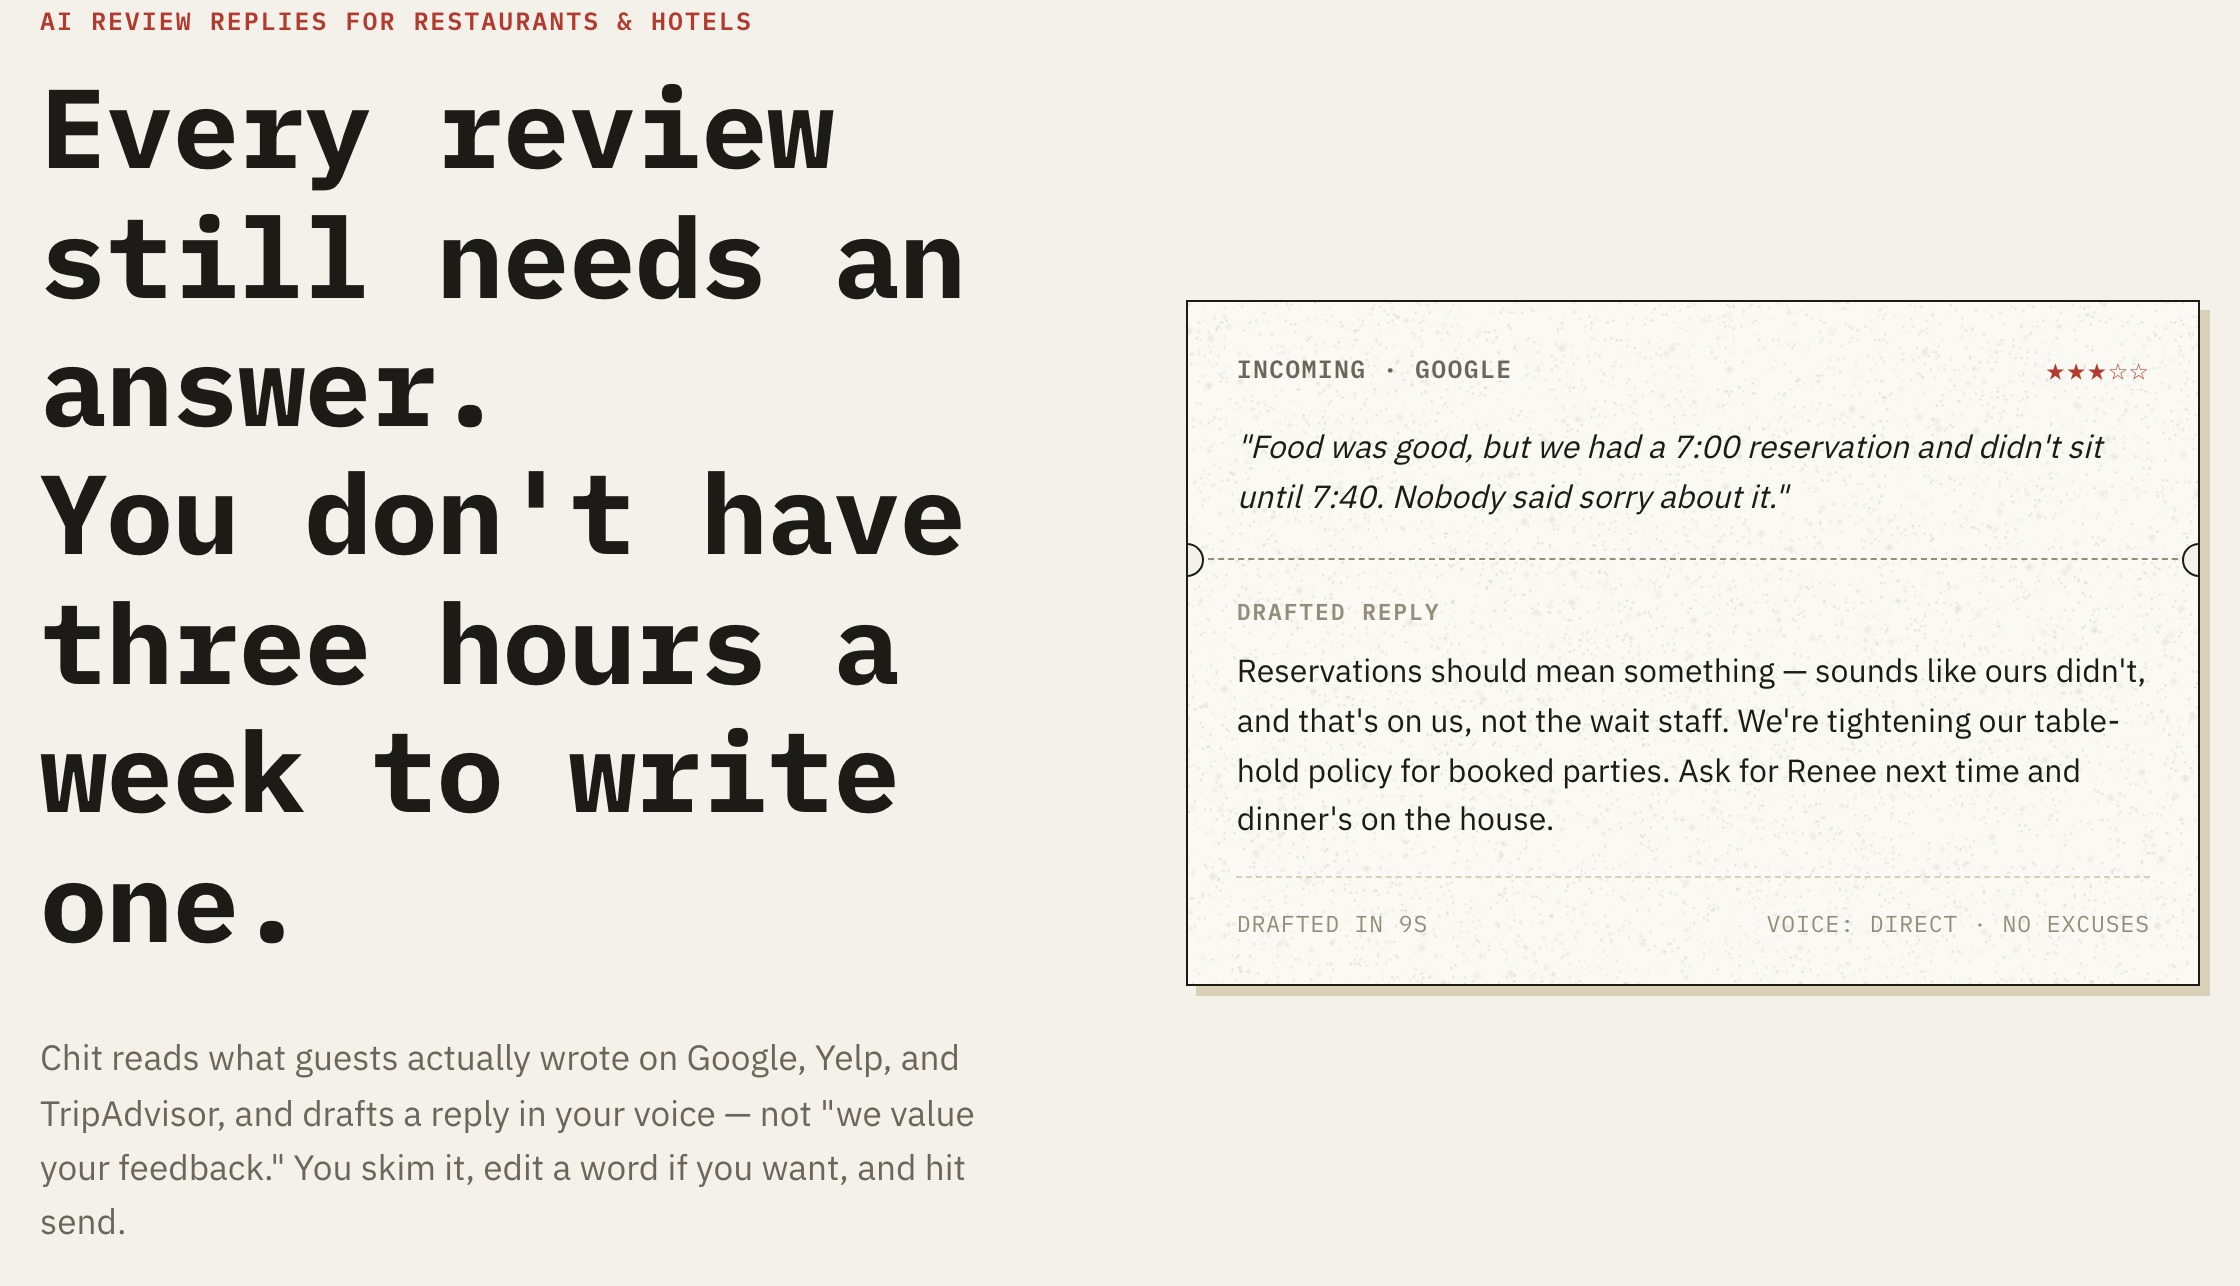
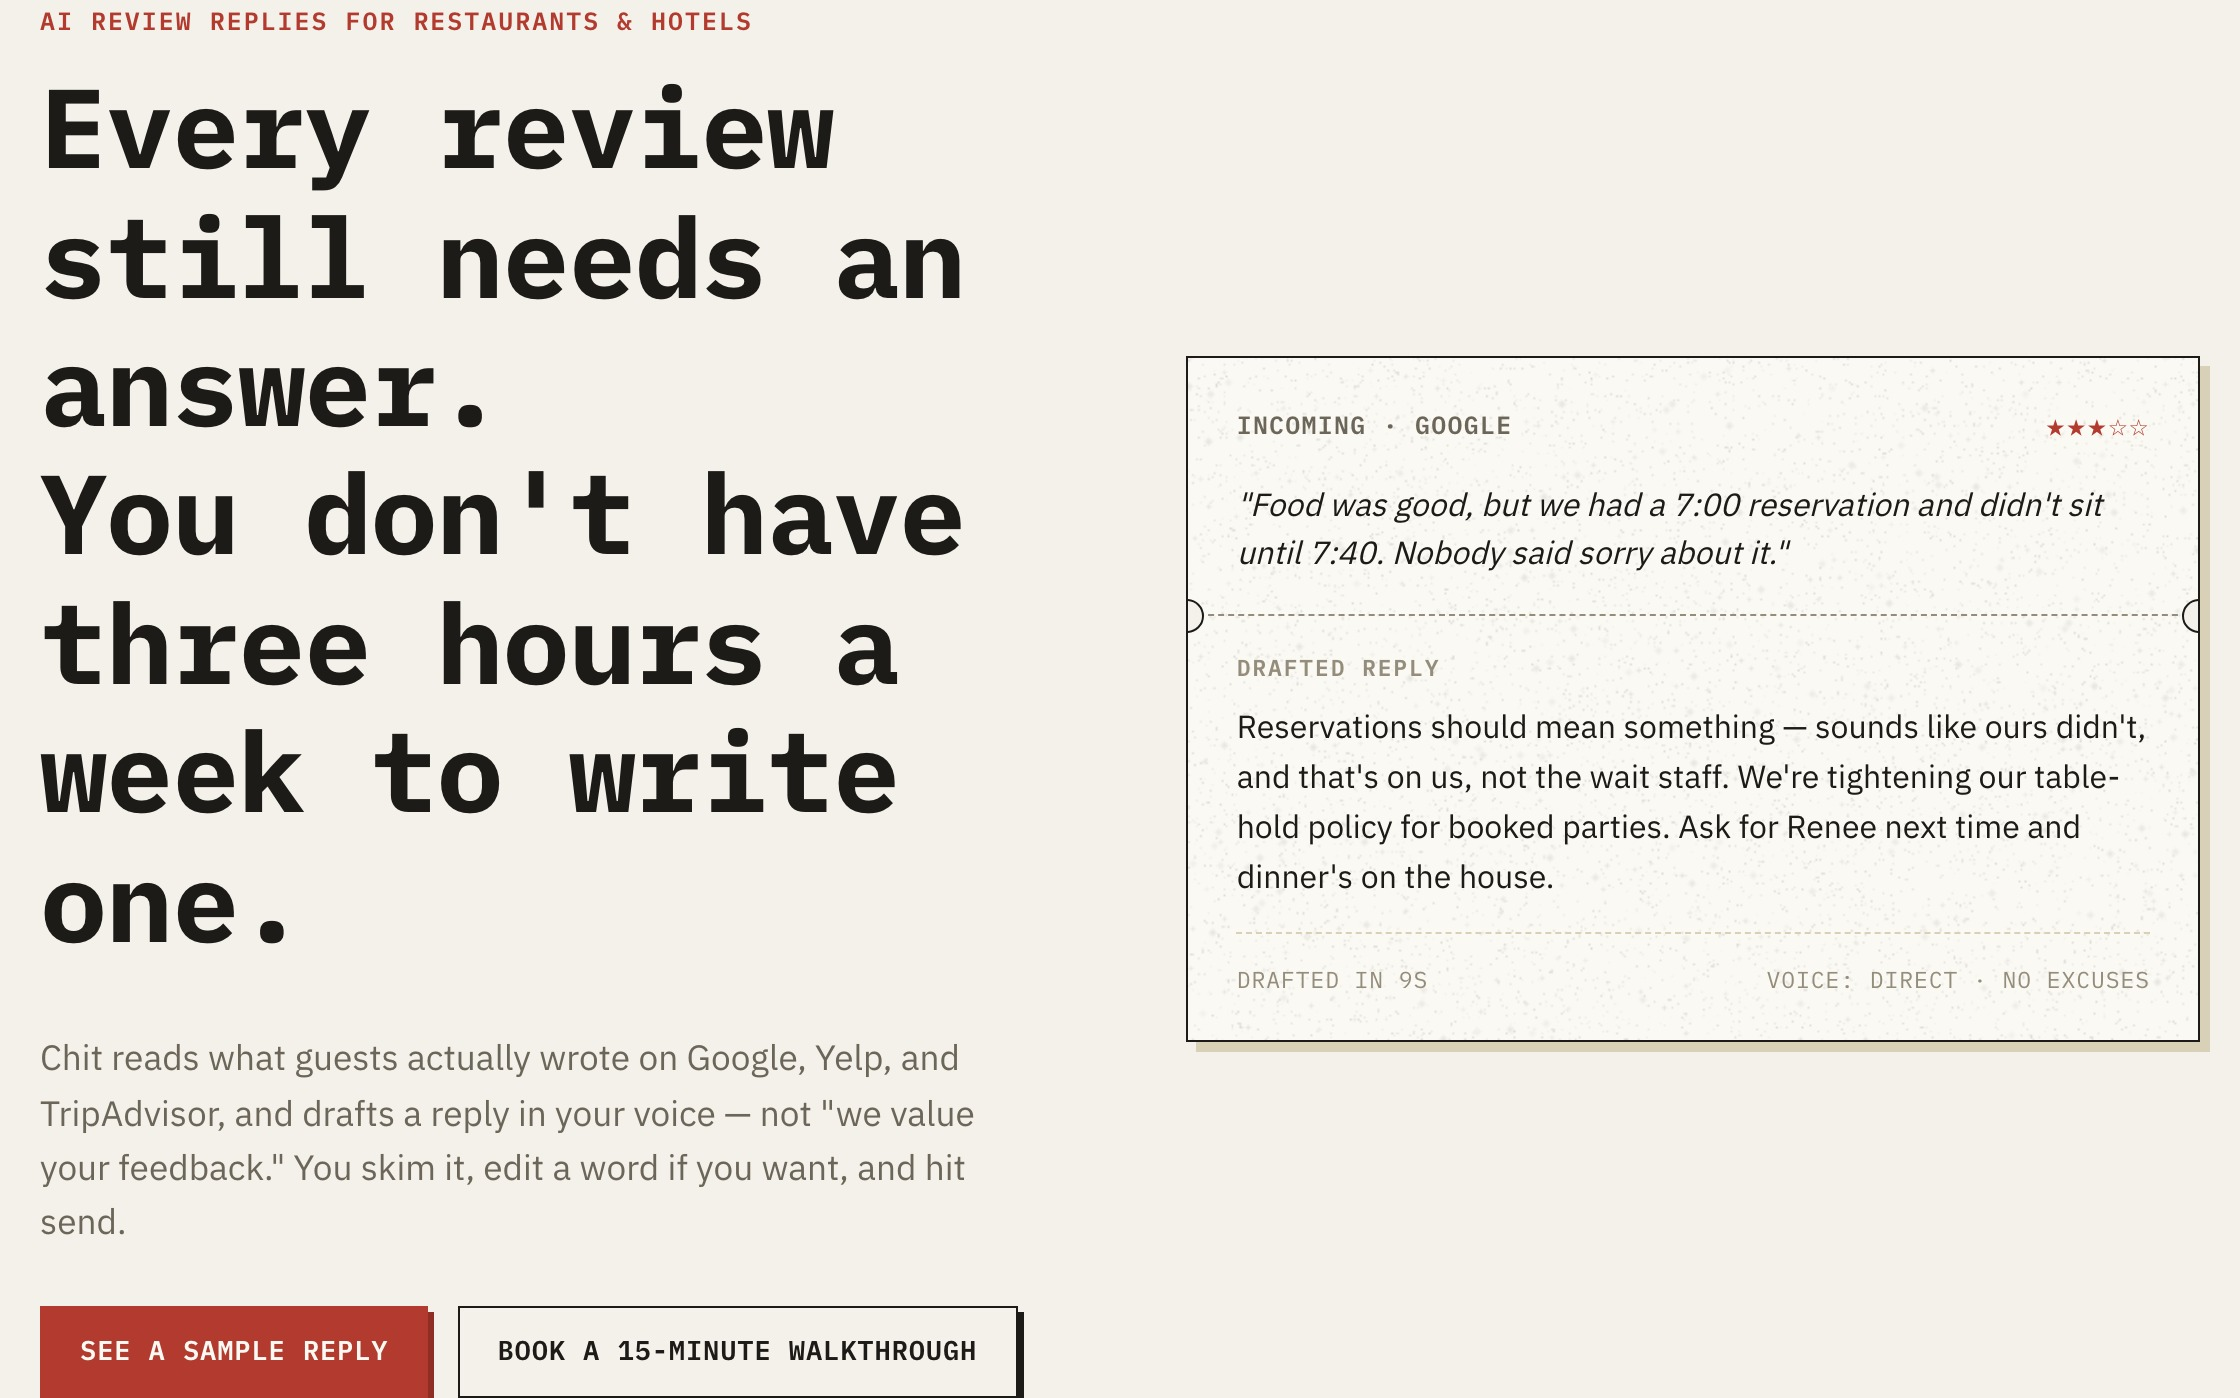
Make card thumbnail height fluid to keep CTA buttons fully visible
Discrete per-breakpoint fixed heights couldn't satisfy both constraints at
once: narrow phone widths needed a short box to avoid cropping headline
text, while wide desktop columns needed a tall box to avoid cropping the
button row — and each breakpoint spans too wide a range for one fixed value
to work throughout. Switched to viewport-driven clamp()/calc() heights so
the box ratio stays ~constant (and below every screenshot's own ratio)
across the full width range, verified from 320px up through 1920px.
Recaptured Chit's cover with the CTA buttons included now that they fit.

diff --git a/src/components/CaseCard.jsx b/src/components/CaseCard.jsx
@@ -32,7 +32,7 @@ export default function CaseCard({ item, index = 0 }) {
           alt={`${item.title} — website cover`}
           index={item.index}
           tone={item.tone}
-          aspect="h-44 sm:h-40 lg:h-44"
+          aspect="h-[clamp(9rem,calc(66.7vw_-_55px),24rem)] sm:h-[clamp(8rem,calc(33.3vw_-_61px),18rem)] lg:h-[clamp(10rem,calc(21.75vw_-_58px),12rem)]"
           fit="cover"
           className="border-b border-line"
         />
